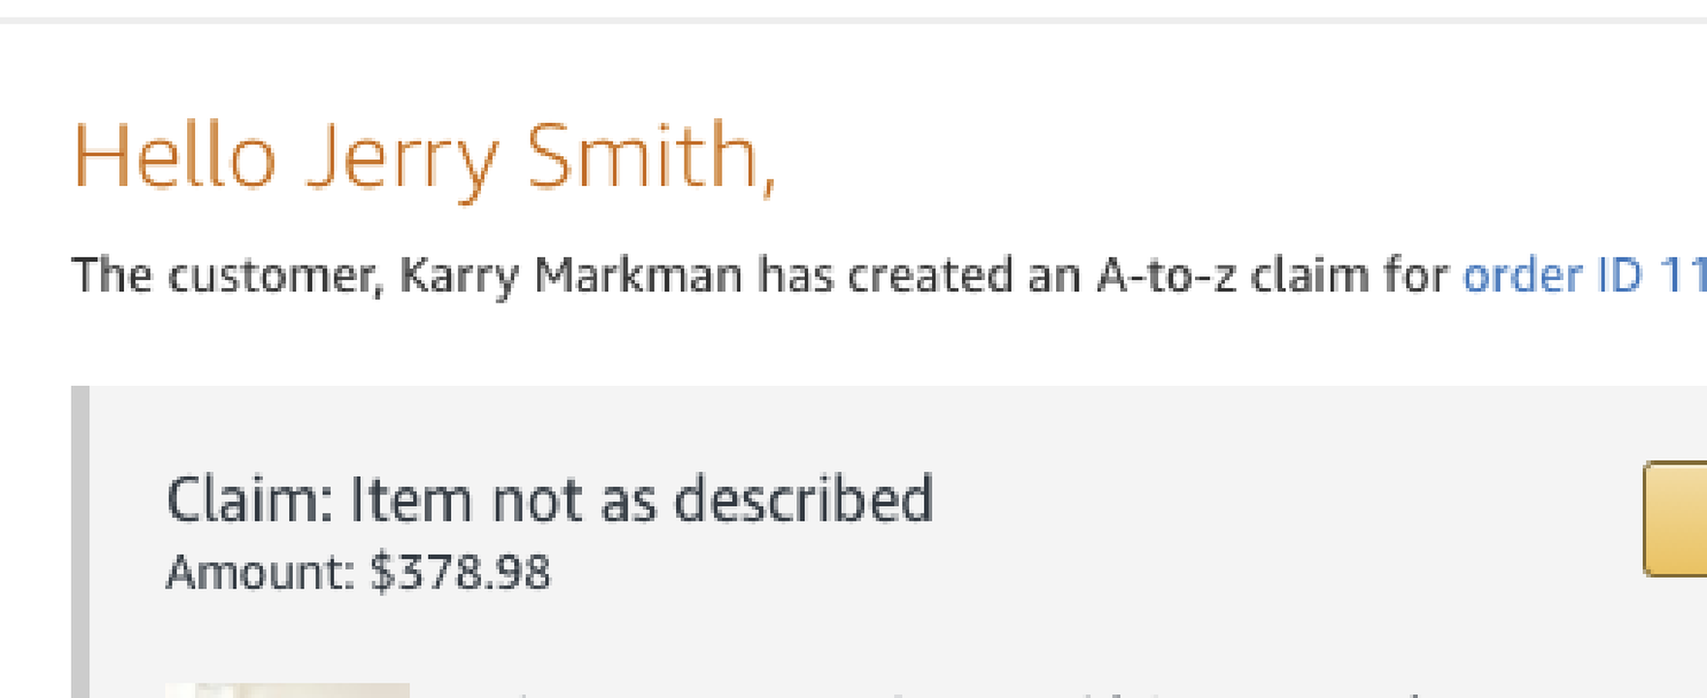
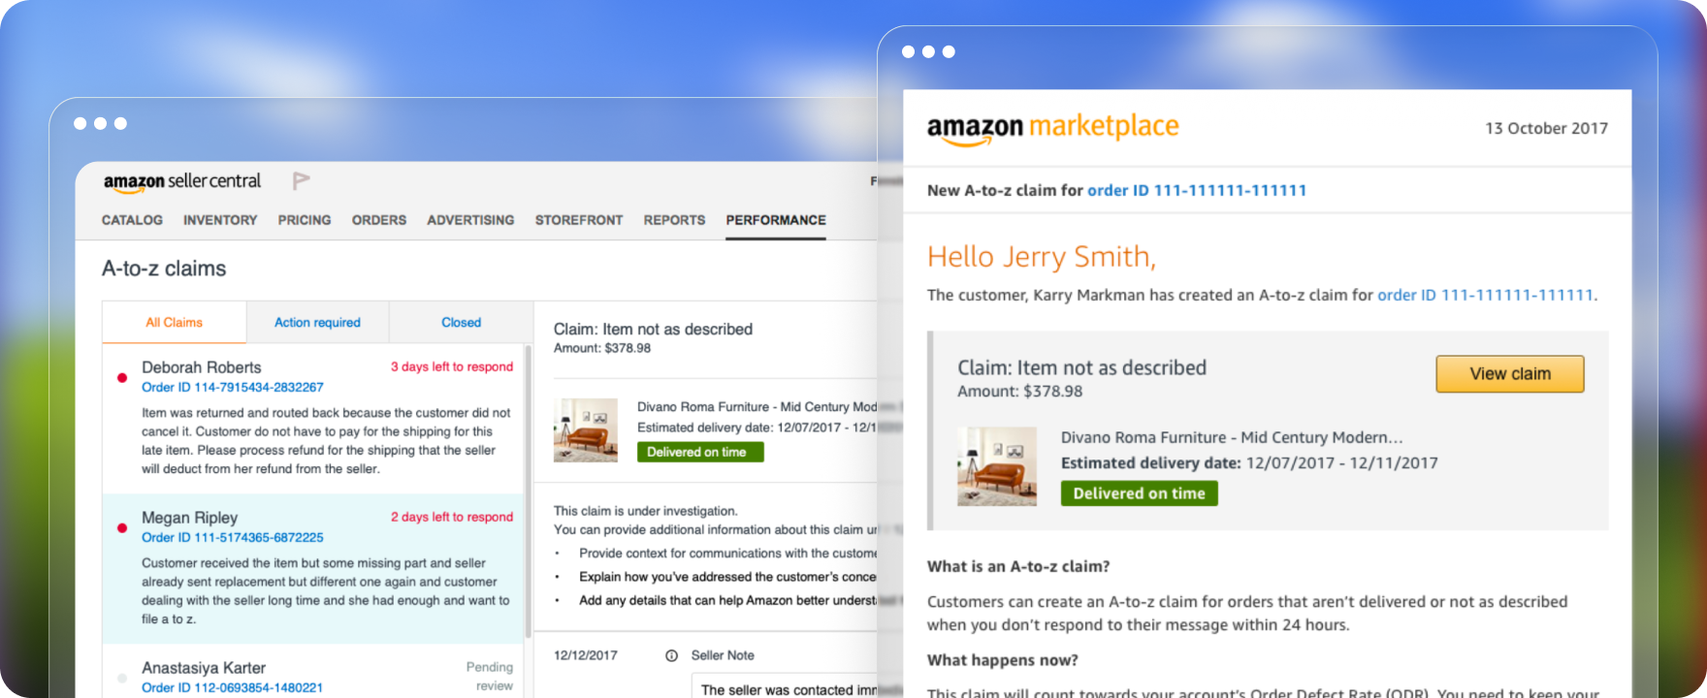
Update the A-to-z case images.
The email figure is now landscape with annotations, so its dimensions and alt text change with it, and the hero and card alt text describe the new images.

diff --git a/dist/index.html b/dist/index.html
@@ -1,2 +1,2 @@
-<html lang="en"><head><meta charset="UTF-8"/><meta name="viewport" content="width=device-width, initial-scale=1.0"/><title>Aaron Benjamin — Product Designer</title><meta name="description" content="I help teams make sense of complex problems. Then we ship something glorious."/><link rel="canonical" href="https://aaronbenjamin.design/"/><meta property="og:type" content="website"/><meta property="og:title" content="Aaron Benjamin — Product Designer"/><meta property="og:description" content="I help teams make sense of complex problems. Then we ship something glorious."/><meta property="og:url" content="https://aaronbenjamin.design/"/><meta property="og:image" content="https://aaronbenjamin.design/assets/img/folio/work-classroom.png"/><meta name="twitter:card" content="summary_large_image"/><link rel="icon" type="image/svg+xml" href="/assets/img/folio/favicon.svg"/><link rel="stylesheet" href="/assets/style/folio.css"/></head><body class="folio"><a class="visually-hidden" href="#main">Skip to content</a><div class="folio__decor" aria-hidden="true"><img class="folio__decor-img" src="assets/img/folio/blob.svg" alt=""/></div><header class="folio-hdr"><div class="folio-hdr__inner"><a class="folio-hdr__name" href="/">Aaron Benjamin</a><nav class="folio-nav" aria-label="Primary"><a class="folio-nav__a" href="/#work" aria-current="page">Work</a><a class="folio-nav__a" href="/#about">About</a><a class="folio-nav__a" href="/resume.html">Resume</a></nav></div></header><main class="folio-main" id="main"><section class="folio-hero" aria-labelledby="hero-title"><div class="folio-hero__inner"><div class="folio-hero__copy"><div class="folio-hero__text"><h1 class="folio-hero__title" id="hero-title"><span class="folio-hero__kicker">I help teams make sense of complex problems.</span><span class="folio-hero__mark">Then we ship something <span class="folio-hero__rotator" aria-hidden="true"><span class="folio-hero__word">glorious</span><span class="folio-hero__word">delightful</span><span class="folio-hero__word">outrageous</span><span class="folio-hero__word">splendid</span><span class="folio-hero__word">mischievous</span><span class="folio-hero__word">brilliant</span><span class="folio-hero__word">audacious</span><span class="folio-hero__word">exquisite</span><span class="folio-hero__word">scalable</span><span class="folio-hero__word">useful</span><span class="folio-hero__word">clear</span><span class="folio-hero__word">usable</span><span class="folio-hero__word">accessible</span><span class="folio-hero__word">engaging</span><span class="folio-hero__word">thoughtful</span><span class="folio-hero__word">intentional</span><span class="folio-hero__word">durable</span><span class="folio-hero__word">reliable</span><span class="folio-hero__word">humane</span><span class="folio-hero__word">focused</span><span class="folio-hero__word">simple</span><span class="folio-hero__word">sturdy</span><span class="folio-hero__word">precise</span><span class="folio-hero__word">inclusive</span><span class="folio-hero__word">coherent</span><span class="folio-hero__word">measurable</span><span class="folio-hero__word">considered</span><span class="folio-hero__word">legible</span><span class="folio-hero__word">user-centered</span><span class="folio-hero__word">ridiculous</span><span class="folio-hero__word">bonkers</span><span class="folio-hero__word">feral</span><span class="folio-hero__word">cheeky</span><span class="folio-hero__word">absurd</span><span class="folio-hero__word">chaotic</span><span class="folio-hero__word">spicy</span><span class="folio-hero__word">suspicious</span><span class="folio-hero__word">unhinged</span><span class="folio-hero__word">extra</span></span><span class="visually-hidden">glorious</span></span></h1><p class="folio-hero__dek">I'm a UX and product leader with 10+ years of experience turning complex problems into useful, scalable products for companies including Amazon, The Home Depot, HP, and AT&T.</p></div><a class="folio-btn" href="#work">Explore my work</a></div><div class="folio-hero__media"><img src="assets/img/folio/hero-hi.png" alt="Illustrated portrait of Aaron Benjamin waving, with a speech bubble that says hi" width="238" height="250"/></div></div></section><section class="folio-work" id="work" aria-labelledby="selected-work-title"><div class="folio-work__inner"><h2 class="folio-eyebrow" id="selected-work-title">Selected work</h2><article class="folio-project folio-project--feature"><a class="folio-project__link" href="/classroom-assignment-management.html"><div class="folio-project__media"><img src="assets/img/folio/work-classroom.png" alt="Classroom assignment management interface showing student status and scores" loading="lazy"/></div><div class="folio-project__copy"><p class="folio-project__status">Renaissance · Senior UX Designer</p><h3 class="folio-project__title">Classroom Assignment Management</h3><p class="folio-project__dek">Teachers could see how many students finished, not which ones. I replaced a table they had to sort with a priority view and worked with engineering to put student names on the page.</p><span class="folio-project__cta">Read case study</span></div></a></article><article class="folio-project folio-project--feature" id="green-loom"><a class="folio-project__link" href="/green-loom.html"><div class="folio-project__media"><img src="assets/img/folio/project--green-loom/green-loom--work-card-2x.png" alt="Green Loom catalog with Peach Orchard Chew and stock states" loading="lazy"/></div><div class="folio-project__copy"><p class="folio-project__status">Green Loom · Co-founder</p><h3 class="folio-project__title">Green Loom</h3><p class="folio-project__dek">A lab certificate can expire without changing the product. I designed a retail catalog for Georgia’s hemp rules that keeps those two facts apart.</p><span class="folio-project__cta">Read case study</span></div></a></article><article class="folio-project folio-project--feature" id="design-dash"><a class="folio-project__link" href="/design-dash.html"><div class="folio-project__media folio-project__placeholder"><img class="folio-project__placeholder-img" src="assets/img/folio/project--design-dash/design-dash--work-card-2x.png" alt="Design Dash plan outputs: a pitch, requirements, and a monochrome wireframe" loading="lazy"/><div class="folio-project__placeholder-meta" aria-hidden="true"><p class="folio-project__placeholder-label">Image placeholder</p><p class="folio-project__placeholder-desc">Wide crop of a Design Dash plan: phase strip plus pitch, requirements, and wireframe. Not a consumer dashboard.</p><p class="folio-project__placeholder-dims"><span>Display 880×360</span><span>Export 1760×720</span></p><p class="folio-project__placeholder-file">src/assets/img/folio/project--design-dash/design-dash--work-card-2x.png</p></div></div><div class="folio-project__copy"><p class="folio-project__status">Design Dash · Author</p><h3 class="folio-project__title">Design Dash</h3><p class="folio-project__dek">A generated screen can land before anyone has defined the system. I built a workflow that ends in a plan a team can build from.</p><span class="folio-project__cta">Read case study</span></div></a></article><article class="folio-project folio-project--feature" id="many-hats"><a class="folio-project__link" href="/many-hats.html"><div class="folio-project__media folio-project__placeholder"><img class="folio-project__placeholder-img" src="assets/img/folio/project--many-hats/many-hats--work-card-2x.png" alt="Many Hats specialists and four Library Holds artifacts" loading="lazy"/><div class="folio-project__placeholder-meta" aria-hidden="true"><p class="folio-project__placeholder-label">Image placeholder</p><p class="folio-project__placeholder-desc">Wide crop of the thirteen hats or the four Library Holds artifacts, with Allie’s challenge visible. Fictional demo, no real library branding.</p><p class="folio-project__placeholder-dims"><span>Display 880×360</span><span>Export 1760×720</span></p><p class="folio-project__placeholder-file">src/assets/img/folio/project--many-hats/many-hats--work-card-2x.png</p></div></div><div class="folio-project__copy"><p class="folio-project__status">Many Hats · Author</p><h3 class="folio-project__title">Many Hats</h3><p class="folio-project__dek">One chat was answering as the whole team. I built thirteen specialists who leave citable work, and I kept the decision.</p><span class="folio-project__cta">Read case study</span></div></a></article><article class="folio-project folio-project--feature" id="a-to-z-first-claim"><a class="folio-project__link" href="/a-to-z-first-claim.html"><div class="folio-project__media"><img src="assets/img/folio/project--a-to-z-first-claim/a-to-z-first-claim--work-card-2x.png" alt="Amazon Marketplace first-claim email with claim details and coverage callout" loading="lazy"/></div><div class="folio-project__copy"><p class="folio-project__status">Amazon · UX Designer</p><h3 class="folio-project__title">A-to-z First Claim</h3><p class="folio-project__dek">A seller’s first A-to-z email often felt like a penalty. I redesigned it to teach—claim details, first-claim coverage, and a short path to avoid the next one.</p><span class="folio-project__cta">Read case study</span></div></a></article><article class="folio-project folio-project--feature" id="curbside-pickup"><a class="folio-project__link" href="/curbside-pickup.html"><div class="folio-project__media"><img src="assets/img/folio/project--curbside-pickup/curbside-pickup--work-card-2x.png" alt="Curbside ready-for-pickup mobile messages with ETA choices" loading="lazy"/></div><div class="folio-project__copy"><p class="folio-project__status">The Home Depot · Staff UX Designer</p><h3 class="folio-project__title">Curbside Pickup</h3><p class="folio-project__dek">Contactless pickup was inventing itself in 2020. I put ETAs and check-in confirmation into the messages customers already got.</p><span class="folio-project__cta">Read case study</span></div></a></article><article class="folio-project folio-project--feature" id="price-adjustments"><a class="folio-project__link" href="/price-adjustments.html"><div class="folio-project__media"><img src="assets/img/folio/project--price-adjustments/price-adjustments--work-card-2x.png" alt="Order Up Apply markdown fly-out on a shopping cart item" loading="lazy"/></div><div class="folio-project__copy"><p class="folio-project__status">The Home Depot · Staff UX Designer</p><h3 class="folio-project__title">Price Adjustments</h3><p class="folio-project__dek">Associates had workarounds for damaged-item and competitor discounts. I put a markdown path in Order Up that kept the cart in view.</p><span class="folio-project__cta">Read case study</span></div></a></article><p class="folio-work__also">Also shipped at Indeed, where I designed and analyzed more than 30 A/B tests for employer monetization.
+<html lang="en"><head><meta charset="UTF-8"/><meta name="viewport" content="width=device-width, initial-scale=1.0"/><title>Aaron Benjamin — Product Designer</title><meta name="description" content="I help teams make sense of complex problems. Then we ship something glorious."/><link rel="canonical" href="https://aaronbenjamin.design/"/><meta property="og:type" content="website"/><meta property="og:title" content="Aaron Benjamin — Product Designer"/><meta property="og:description" content="I help teams make sense of complex problems. Then we ship something glorious."/><meta property="og:url" content="https://aaronbenjamin.design/"/><meta property="og:image" content="https://aaronbenjamin.design/assets/img/folio/work-classroom.png"/><meta name="twitter:card" content="summary_large_image"/><link rel="icon" type="image/svg+xml" href="/assets/img/folio/favicon.svg"/><link rel="stylesheet" href="/assets/style/folio.css"/></head><body class="folio"><a class="visually-hidden" href="#main">Skip to content</a><div class="folio__decor" aria-hidden="true"><img class="folio__decor-img" src="assets/img/folio/blob.svg" alt=""/></div><header class="folio-hdr"><div class="folio-hdr__inner"><a class="folio-hdr__name" href="/">Aaron Benjamin</a><nav class="folio-nav" aria-label="Primary"><a class="folio-nav__a" href="/#work" aria-current="page">Work</a><a class="folio-nav__a" href="/#about">About</a><a class="folio-nav__a" href="/resume.html">Resume</a></nav></div></header><main class="folio-main" id="main"><section class="folio-hero" aria-labelledby="hero-title"><div class="folio-hero__inner"><div class="folio-hero__copy"><div class="folio-hero__text"><h1 class="folio-hero__title" id="hero-title"><span class="folio-hero__kicker">I help teams make sense of complex problems.</span><span class="folio-hero__mark">Then we ship something <span class="folio-hero__rotator" aria-hidden="true"><span class="folio-hero__word">glorious</span><span class="folio-hero__word">delightful</span><span class="folio-hero__word">outrageous</span><span class="folio-hero__word">splendid</span><span class="folio-hero__word">mischievous</span><span class="folio-hero__word">brilliant</span><span class="folio-hero__word">audacious</span><span class="folio-hero__word">exquisite</span><span class="folio-hero__word">scalable</span><span class="folio-hero__word">useful</span><span class="folio-hero__word">clear</span><span class="folio-hero__word">usable</span><span class="folio-hero__word">accessible</span><span class="folio-hero__word">engaging</span><span class="folio-hero__word">thoughtful</span><span class="folio-hero__word">intentional</span><span class="folio-hero__word">durable</span><span class="folio-hero__word">reliable</span><span class="folio-hero__word">humane</span><span class="folio-hero__word">focused</span><span class="folio-hero__word">simple</span><span class="folio-hero__word">sturdy</span><span class="folio-hero__word">precise</span><span class="folio-hero__word">inclusive</span><span class="folio-hero__word">coherent</span><span class="folio-hero__word">measurable</span><span class="folio-hero__word">considered</span><span class="folio-hero__word">legible</span><span class="folio-hero__word">user-centered</span><span class="folio-hero__word">ridiculous</span><span class="folio-hero__word">bonkers</span><span class="folio-hero__word">feral</span><span class="folio-hero__word">cheeky</span><span class="folio-hero__word">absurd</span><span class="folio-hero__word">chaotic</span><span class="folio-hero__word">spicy</span><span class="folio-hero__word">suspicious</span><span class="folio-hero__word">unhinged</span><span class="folio-hero__word">extra</span></span><span class="visually-hidden">glorious</span></span></h1><p class="folio-hero__dek">I'm a UX and product leader with 10+ years of experience turning complex problems into useful, scalable products for companies including Amazon, The Home Depot, HP, and AT&T.</p></div><a class="folio-btn" href="#work">Explore my work</a></div><div class="folio-hero__media"><img src="assets/img/folio/hero-hi.png" alt="Illustrated portrait of Aaron Benjamin waving, with a speech bubble that says hi" width="238" height="250"/></div></div></section><section class="folio-work" id="work" aria-labelledby="selected-work-title"><div class="folio-work__inner"><h2 class="folio-eyebrow" id="selected-work-title">Selected work</h2><article class="folio-project folio-project--feature"><a class="folio-project__link" href="/classroom-assignment-management.html"><div class="folio-project__media"><img src="assets/img/folio/work-classroom.png" alt="Classroom assignment management interface showing student status and scores" loading="lazy"/></div><div class="folio-project__copy"><p class="folio-project__status">Renaissance · Senior UX Designer</p><h3 class="folio-project__title">Classroom Assignment Management</h3><p class="folio-project__dek">Teachers could see how many students finished, not which ones. I replaced a table they had to sort with a priority view and worked with engineering to put student names on the page.</p><span class="folio-project__cta">Read case study</span></div></a></article><article class="folio-project folio-project--feature" id="green-loom"><a class="folio-project__link" href="/green-loom.html"><div class="folio-project__media"><img src="assets/img/folio/project--green-loom/green-loom--work-card-2x.png" alt="Green Loom catalog with Peach Orchard Chew and stock states" loading="lazy"/></div><div class="folio-project__copy"><p class="folio-project__status">Green Loom · Co-founder</p><h3 class="folio-project__title">Green Loom</h3><p class="folio-project__dek">A lab certificate can expire without changing the product. I designed a retail catalog for Georgia’s hemp rules that keeps those two facts apart.</p><span class="folio-project__cta">Read case study</span></div></a></article><article class="folio-project folio-project--feature" id="design-dash"><a class="folio-project__link" href="/design-dash.html"><div class="folio-project__media folio-project__placeholder"><img class="folio-project__placeholder-img" src="assets/img/folio/project--design-dash/design-dash--work-card-2x.png" alt="Design Dash plan outputs: a pitch, requirements, and a monochrome wireframe" loading="lazy"/><div class="folio-project__placeholder-meta" aria-hidden="true"><p class="folio-project__placeholder-label">Image placeholder</p><p class="folio-project__placeholder-desc">Wide crop of a Design Dash plan: phase strip plus pitch, requirements, and wireframe. Not a consumer dashboard.</p><p class="folio-project__placeholder-dims"><span>Display 880×360</span><span>Export 1760×720</span></p><p class="folio-project__placeholder-file">src/assets/img/folio/project--design-dash/design-dash--work-card-2x.png</p></div></div><div class="folio-project__copy"><p class="folio-project__status">Design Dash · Author</p><h3 class="folio-project__title">Design Dash</h3><p class="folio-project__dek">A generated screen can land before anyone has defined the system. I built a workflow that ends in a plan a team can build from.</p><span class="folio-project__cta">Read case study</span></div></a></article><article class="folio-project folio-project--feature" id="many-hats"><a class="folio-project__link" href="/many-hats.html"><div class="folio-project__media folio-project__placeholder"><img class="folio-project__placeholder-img" src="assets/img/folio/project--many-hats/many-hats--work-card-2x.png" alt="Many Hats specialists and four Library Holds artifacts" loading="lazy"/><div class="folio-project__placeholder-meta" aria-hidden="true"><p class="folio-project__placeholder-label">Image placeholder</p><p class="folio-project__placeholder-desc">Wide crop of the thirteen hats or the four Library Holds artifacts, with Allie’s challenge visible. Fictional demo, no real library branding.</p><p class="folio-project__placeholder-dims"><span>Display 880×360</span><span>Export 1760×720</span></p><p class="folio-project__placeholder-file">src/assets/img/folio/project--many-hats/many-hats--work-card-2x.png</p></div></div><div class="folio-project__copy"><p class="folio-project__status">Many Hats · Author</p><h3 class="folio-project__title">Many Hats</h3><p class="folio-project__dek">One chat was answering as the whole team. I built thirteen specialists who leave citable work, and I kept the decision.</p><span class="folio-project__cta">Read case study</span></div></a></article><article class="folio-project folio-project--feature" id="a-to-z-first-claim"><a class="folio-project__link" href="/a-to-z-first-claim.html"><div class="folio-project__media"><img src="assets/img/folio/project--a-to-z-first-claim/a-to-z-first-claim--work-card-2x.png" alt="Seller Central A-to-z claims list beside the redesigned first-claim email" loading="lazy"/></div><div class="folio-project__copy"><p class="folio-project__status">Amazon · UX Designer</p><h3 class="folio-project__title">A-to-z First Claim</h3><p class="folio-project__dek">A seller’s first A-to-z email often felt like a penalty. I redesigned it to teach—claim details, first-claim coverage, and a short path to avoid the next one.</p><span class="folio-project__cta">Read case study</span></div></a></article><article class="folio-project folio-project--feature" id="curbside-pickup"><a class="folio-project__link" href="/curbside-pickup.html"><div class="folio-project__media"><img src="assets/img/folio/project--curbside-pickup/curbside-pickup--work-card-2x.png" alt="Curbside ready-for-pickup mobile messages with ETA choices" loading="lazy"/></div><div class="folio-project__copy"><p class="folio-project__status">The Home Depot · Staff UX Designer</p><h3 class="folio-project__title">Curbside Pickup</h3><p class="folio-project__dek">Contactless pickup was inventing itself in 2020. I put ETAs and check-in confirmation into the messages customers already got.</p><span class="folio-project__cta">Read case study</span></div></a></article><article class="folio-project folio-project--feature" id="price-adjustments"><a class="folio-project__link" href="/price-adjustments.html"><div class="folio-project__media"><img src="assets/img/folio/project--price-adjustments/price-adjustments--work-card-2x.png" alt="Order Up Apply markdown fly-out on a shopping cart item" loading="lazy"/></div><div class="folio-project__copy"><p class="folio-project__status">The Home Depot · Staff UX Designer</p><h3 class="folio-project__title">Price Adjustments</h3><p class="folio-project__dek">Associates had workarounds for damaged-item and competitor discounts. I put a markdown path in Order Up that kept the cart in view.</p><span class="folio-project__cta">Read case study</span></div></a></article><p class="folio-work__also">Also shipped at Indeed, where I designed and analyzed more than 30 A/B tests for employer monetization.
 <a href="mailto:hello@aaronbenjamin.design?subject=Indeed%20project">Ask me about Indeed</a></p></div></section><section class="folio-claims" id="about" aria-labelledby="about-title"><div class="folio-claims__inner"><h2 class="folio-eyebrow folio-claims__label" id="about-title">How I work</h2><p class="folio-claims__note">I believe good design is facilitated, not produced by one person in isolation.</p><article class="folio-claim"><div class="folio-claim__head"><p class="folio-claim__num">01</p><h3 class="folio-claim__title">Make the system visible.</h3></div><p class="folio-claim__body">Before screens, I map what the product is, with the people who have to build it. The product can be theirs. The model still comes first.</p></article><article class="folio-claim"><div class="folio-claim__head"><p class="folio-claim__num">02</p><h3 class="folio-claim__title">Decide what matters first.</h3></div><p class="folio-claim__body">Research picks what is worth building first. The interface then makes that choice, instead of handing someone a pile of filters and wishing them luck.</p></article><article class="folio-claim"><div class="folio-claim__head"><p class="folio-claim__num">03</p><h3 class="folio-claim__title">Bring the team along.</h3></div><p class="folio-claim__body">I stay in the room with product, research, and engineering until the decision is something they can build. The handoff is a shared model, not a file drop.</p></article></div></section><footer class="folio-footer folio-footer--portrait"><img class="folio-footer__portrait" src="assets/img/folio/hero-portrait.png" alt="Illustrated portrait of Aaron Benjamin waving hello" width="238" height="250" loading="lazy"/><div class="folio-footer__body"><p class="folio-footer__lead">If there’s a question your product should answer and can’t yet, send it my way.</p><a class="folio-footer__contact" href="mailto:hello@aaronbenjamin.design">Email Aaron</a><a class="folio-footer__resume" href="/resume.html">View Resume</a></div></footer></main><script src="assets/js/hero-rotator.js" defer="defer"></script></body></html>

diff --git a/dist/a-to-z-first-claim.html b/dist/a-to-z-first-claim.html
@@ -1,1 +1,1 @@
-<html lang="en"><head><meta charset="UTF-8"/><meta name="viewport" content="width=device-width, initial-scale=1.0"/><title>Turning a seller’s first A-to-z claim into a learning moment | Aaron Benjamin</title><meta name="description" content="I redesigned the Amazon Seller Central first-claim email so a punitive A-to-z notice could teach sellers how to avoid the next claim."/><link rel="canonical" href="https://aaronbenjamin.design/a-to-z-first-claim.html"/><meta property="og:type" content="website"/><meta property="og:title" content="Turning a seller’s first A-to-z claim into a learning moment | Aaron Benjamin"/><meta property="og:description" content="I redesigned the Amazon Seller Central first-claim email so a punitive A-to-z notice could teach sellers how to avoid the next claim."/><meta property="og:url" content="https://aaronbenjamin.design/a-to-z-first-claim.html"/><meta property="og:image" content="https://aaronbenjamin.design/assets/img/folio/project--a-to-z-first-claim/a-to-z-first-claim--hero-2x.png"/><meta name="twitter:card" content="summary_large_image"/><link rel="icon" type="image/svg+xml" href="/assets/img/folio/favicon.svg"/><link rel="stylesheet" href="/assets/style/folio.css"/></head><body class="folio folio--case"><a class="visually-hidden" href="#main">Skip to content</a><div class="folio__decor" aria-hidden="true"><img class="folio__decor-img" src="assets/img/folio/blob.svg" alt=""/></div><header class="folio-hdr"><div class="folio-hdr__inner"><a class="folio-hdr__name folio-hdr__name--project" href="/#a-to-z-first-claim" aria-label="Back to selected work: A-to-z First Claim"><span class="folio-hdr__back-icon" aria-hidden="true">←</span><span>A-to-z First Claim</span></a><nav class="folio-nav" aria-label="Primary"><a class="folio-nav__a" href="/#work" aria-current="page">Work</a><a class="folio-nav__a" href="/#about">About</a><a class="folio-nav__a" href="/resume.html">Resume</a></nav></div></header><main class="folio-main folio-main--case" id="main"><article class="folio-case"><header class="folio-case__hero"><figure class="folio-case__hero-media"><img src="/assets/img/folio/project--a-to-z-first-claim/a-to-z-first-claim--hero-2x.png" alt="Amazon Marketplace first-claim email showing claim details, Order Defect Rate explanation, first-claim coverage, and tips to avoid future claims" width="1920" height="1320" fetchpriority="high"/></figure><div class="folio-case__intro"><p class="folio-eyebrow">Case study</p><h1>Turning a seller’s first A-to-z claim into a learning moment</h1><p class="folio-case__dek">When a third-party order goes wrong, the seller’s first A-to-z email often felt like a penalty. I redesigned that notification so it could teach.</p></div><dl class="folio-case__facts"><div class="folio-case__fact"><dt>Role</dt><dd>UX Designer, Amazon Seller Central</dd></div><div class="folio-case__fact"><dt>Scope</dt><dd>First-claim email experience and partner alignment on tenets</dd></div><div class="folio-case__fact"><dt>Key decision</dt><dd>Treat the first claim as a covered learning event, not only a defect</dd></div><div class="folio-case__fact"><dt>Outcome</dt><dd>Sixty-day U.S. results reported higher seller confidence, lower A-to-z call volume, and more seller-initiated refunds (deck-stated, unverified)</dd></div></dl></header><section class="folio-case__section" aria-labelledby="atoz-support-title"><div class="folio-case__prose"><h2 id="atoz-support-title">Support contacts showed what sellers did not understand</h2><p>When a customer’s order from a third-party seller goes wrong and the seller does not respond in time, Amazon steps in. The customer gets a refund. The seller gets an A-to-z claim, a hit to Order Defect Rate, and an email that often felt like discipline.</p><p>I reviewed a sample of 250 Seller Support contacts tied to A-to-z. Appeals, disputes, and status questions made up large shares of the volume, and many of those contacts were marked preventable on the analysis. Sellers were not only unhappy—they were stuck.</p></div></section><section class="folio-case__section folio-case__section--tint" aria-labelledby="atoz-map-title"><div class="folio-case__prose"><h2 id="atoz-map-title">Mapping and interviews made the gap concrete</h2><p>I worked with stakeholders and domain experts to map how messaging, eligibility, disputes, and appeals connected. Seller interviews added the human version: people felt helpless, could not see what to do next in the communications they received, cared deeply about ODR, and doubted they could avoid the next claim.</p><p>Before we redesigned anything, I aligned partners on three tenets: the first claim is a learning opportunity; notifications should inform rather than discipline; avoiding future claims helps the customer and the seller.</p></div></section><section class="folio-case__section" aria-labelledby="atoz-email-title"><div class="folio-case__prose"><h2 id="atoz-email-title">The first-claim email had to explain, cover, and coach</h2><p>The pivotal decision was to treat the first claim as a covered learning event. The email led with claim details, explained what an A-to-z claim is and how ODR works, stated that Amazon would cover the customer refund on the first claim, and listed concrete practices for avoiding another one. The stakes stayed visible. The tone changed.</p><p>I designed that notification. Shipping it and funding first-claim coverage were team and program moves; I do not claim them as solo outcomes.</p></div><figure class="folio-case__figure" aria-labelledby="atoz-email-caption"><img src="/assets/img/folio/project--a-to-z-first-claim/a-to-z-first-claim--email-2x.png" alt="Full first-claim email mock with claim summary, first-claim coverage callout, and avoidance tips" width="1200" height="2200" loading="lazy"/><figcaption id="atoz-email-caption">Redesigned first-claim email: claim specifics up front, ODR explained, first claim covered, and a short list of behaviors that prevent the next failure. Sample seller and order data.</figcaption></figure></section><section class="folio-case__outcome" aria-labelledby="atoz-outcome-title"><div class="folio-case__outcome-inner"><p class="folio-eyebrow">Outcome</p><h2 id="atoz-outcome-title">Sixty days in the U.S.</h2><p>Sixty days after the update was live in the U.S., the deck reports that 88% of sellers who opened the email said they were confident or very confident they could avoid future claims, A-to-z-related call volume fell 14% (+2% week over week), and seller-initiated refunds trended toward a 30% year-over-year increase. Those figures are stated on the results slide and remain unverified in my career record.</p><p>My takeaway: when the company is willing to absorb a first failure, the notification should spend that goodwill on specifics and a short path to better behavior—not on softer adjectives.</p></div></section></article><footer class="folio-footer"><div class="folio-footer__body"><p class="folio-footer__lead">A high-stakes notification earns its place when it teaches the next action, not when it only softens the tone.</p><a class="folio-footer__contact" href="mailto:hello@aaronbenjamin.design">Email Aaron</a><a class="folio-footer__next" href="/curbside-pickup.html">Next case: Curbside Pickup<span aria-hidden="true"> →</span></a><a class="folio-footer__resume" href="/resume.html">View Resume</a></div></footer></main></body></html>
+<html lang="en"><head><meta charset="UTF-8"/><meta name="viewport" content="width=device-width, initial-scale=1.0"/><title>Turning a seller’s first A-to-z claim into a learning moment | Aaron Benjamin</title><meta name="description" content="I redesigned the Amazon Seller Central first-claim email so a punitive A-to-z notice could teach sellers how to avoid the next claim."/><link rel="canonical" href="https://aaronbenjamin.design/a-to-z-first-claim.html"/><meta property="og:type" content="website"/><meta property="og:title" content="Turning a seller’s first A-to-z claim into a learning moment | Aaron Benjamin"/><meta property="og:description" content="I redesigned the Amazon Seller Central first-claim email so a punitive A-to-z notice could teach sellers how to avoid the next claim."/><meta property="og:url" content="https://aaronbenjamin.design/a-to-z-first-claim.html"/><meta property="og:image" content="https://aaronbenjamin.design/assets/img/folio/project--a-to-z-first-claim/a-to-z-first-claim--hero-2x.png"/><meta name="twitter:card" content="summary_large_image"/><link rel="icon" type="image/svg+xml" href="/assets/img/folio/favicon.svg"/><link rel="stylesheet" href="/assets/style/folio.css"/></head><body class="folio folio--case"><a class="visually-hidden" href="#main">Skip to content</a><div class="folio__decor" aria-hidden="true"><img class="folio__decor-img" src="assets/img/folio/blob.svg" alt=""/></div><header class="folio-hdr"><div class="folio-hdr__inner"><a class="folio-hdr__name folio-hdr__name--project" href="/#a-to-z-first-claim" aria-label="Back to selected work: A-to-z First Claim"><span class="folio-hdr__back-icon" aria-hidden="true">←</span><span>A-to-z First Claim</span></a><nav class="folio-nav" aria-label="Primary"><a class="folio-nav__a" href="/#work" aria-current="page">Work</a><a class="folio-nav__a" href="/#about">About</a><a class="folio-nav__a" href="/resume.html">Resume</a></nav></div></header><main class="folio-main folio-main--case" id="main"><article class="folio-case"><header class="folio-case__hero"><figure class="folio-case__hero-media"><img src="/assets/img/folio/project--a-to-z-first-claim/a-to-z-first-claim--hero-2x.png" alt="A seller at a home workspace reviewing the A-to-z claims list in Amazon Seller Central on a laptop" width="1920" height="1320" fetchpriority="high"/></figure><div class="folio-case__intro"><p class="folio-eyebrow">Case study</p><h1>Turning a seller’s first A-to-z claim into a learning moment</h1><p class="folio-case__dek">When a third-party order goes wrong, the seller’s first A-to-z email often felt like a penalty. I redesigned that notification so it could teach.</p></div><dl class="folio-case__facts"><div class="folio-case__fact"><dt>Role</dt><dd>UX Designer, Amazon Seller Central</dd></div><div class="folio-case__fact"><dt>Scope</dt><dd>First-claim email experience and partner alignment on tenets</dd></div><div class="folio-case__fact"><dt>Key decision</dt><dd>Treat the first claim as a covered learning event, not only a defect</dd></div><div class="folio-case__fact"><dt>Outcome</dt><dd>Sixty-day U.S. results reported higher seller confidence, lower A-to-z call volume, and more seller-initiated refunds (deck-stated, unverified)</dd></div></dl></header><section class="folio-case__section" aria-labelledby="atoz-support-title"><div class="folio-case__prose"><h2 id="atoz-support-title">Support contacts showed what sellers did not understand</h2><p>When a customer’s order from a third-party seller goes wrong and the seller does not respond in time, Amazon steps in. The customer gets a refund. The seller gets an A-to-z claim, a hit to Order Defect Rate, and an email that often felt like discipline.</p><p>I reviewed a sample of 250 Seller Support contacts tied to A-to-z. Appeals, disputes, and status questions made up large shares of the volume, and many of those contacts were marked preventable on the analysis. Sellers were not only unhappy—they were stuck.</p></div></section><section class="folio-case__section folio-case__section--tint" aria-labelledby="atoz-map-title"><div class="folio-case__prose"><h2 id="atoz-map-title">Mapping and interviews made the gap concrete</h2><p>I worked with stakeholders and domain experts to map how messaging, eligibility, disputes, and appeals connected. Seller interviews added the human version: people felt helpless, could not see what to do next in the communications they received, cared deeply about ODR, and doubted they could avoid the next claim.</p><p>Before we redesigned anything, I aligned partners on three tenets: the first claim is a learning opportunity; notifications should inform rather than discipline; avoiding future claims helps the customer and the seller.</p></div></section><section class="folio-case__section" aria-labelledby="atoz-email-title"><div class="folio-case__prose"><h2 id="atoz-email-title">The first-claim email had to explain, cover, and coach</h2><p>The pivotal decision was to treat the first claim as a covered learning event. The email led with claim details, explained what an A-to-z claim is and how ODR works, stated that Amazon would cover the customer refund on the first claim, and listed concrete practices for avoiding another one. The stakes stayed visible. The tone changed.</p><p>I designed that notification. Shipping it and funding first-claim coverage were team and program moves; I do not claim them as solo outcomes.</p></div><figure class="folio-case__figure" aria-labelledby="atoz-email-caption"><img src="/assets/img/folio/project--a-to-z-first-claim/a-to-z-first-claim--email-2x.png" alt="First-claim email mock annotated with its four jobs: claim details, set expectations, cover the claim, and help the seller" width="2220" height="1826" loading="lazy"/><figcaption id="atoz-email-caption">Redesigned first-claim email, annotated with its four jobs: claim details up front, what happens next, first claim covered, and practices that prevent the next claim. Sample seller and order data.</figcaption></figure></section><section class="folio-case__outcome" aria-labelledby="atoz-outcome-title"><div class="folio-case__outcome-inner"><p class="folio-eyebrow">Outcome</p><h2 id="atoz-outcome-title">Sixty days in the U.S.</h2><p>Sixty days after the update was live in the U.S., the deck reports that 88% of sellers who opened the email said they were confident or very confident they could avoid future claims, A-to-z-related call volume fell 14% (+2% week over week), and seller-initiated refunds trended toward a 30% year-over-year increase. Those figures are stated on the results slide and remain unverified in my career record.</p><p>My takeaway: when the company is willing to absorb a first failure, the notification should spend that goodwill on specifics and a short path to better behavior—not on softer adjectives.</p></div></section></article><footer class="folio-footer"><div class="folio-footer__body"><p class="folio-footer__lead">A high-stakes notification earns its place when it teaches the next action, not when it only softens the tone.</p><a class="folio-footer__contact" href="mailto:hello@aaronbenjamin.design">Email Aaron</a><a class="folio-footer__next" href="/curbside-pickup.html">Next case: Curbside Pickup<span aria-hidden="true"> →</span></a><a class="folio-footer__resume" href="/resume.html">View Resume</a></div></footer></main></body></html>

diff --git a/requirements.md b/requirements.md
@@ -129,7 +129,7 @@ These are image files:
 - `project--assignment-management/assignment-management--object-model.png`: the object model figure.
 - `project--assignment-management/demo-icons/*.svg`: demo icons.
 - `project--green-loom/green-loom--mobile-catalog-2x.png`: the mobile catalog exploration (displayed 402×874).
-- `project--a-to-z-first-claim/`: hero, work card, and email figure cropped from the folio deck (product UI only; sample seller/order data).
+- `project--a-to-z-first-claim/`: hero (seller at a laptop showing the Seller Central A-to-z claims list, 1920×1320), work card (claims list beside the first-claim email, 1760×720), and annotated email figure (2220×1826). Sample seller and order data.
 - `project--curbside-pickup/`: hero, work card, ready-for-pickup email, and check-in states cropped from the folio deck. Do not use redacted-analysis or placeholder-journey slides as metric sources.
 - `project--price-adjustments/`: hero, work card, apply-markdown, and update-markdown UI crops. Order Up associate name and store number are cropped out of the header.
 
